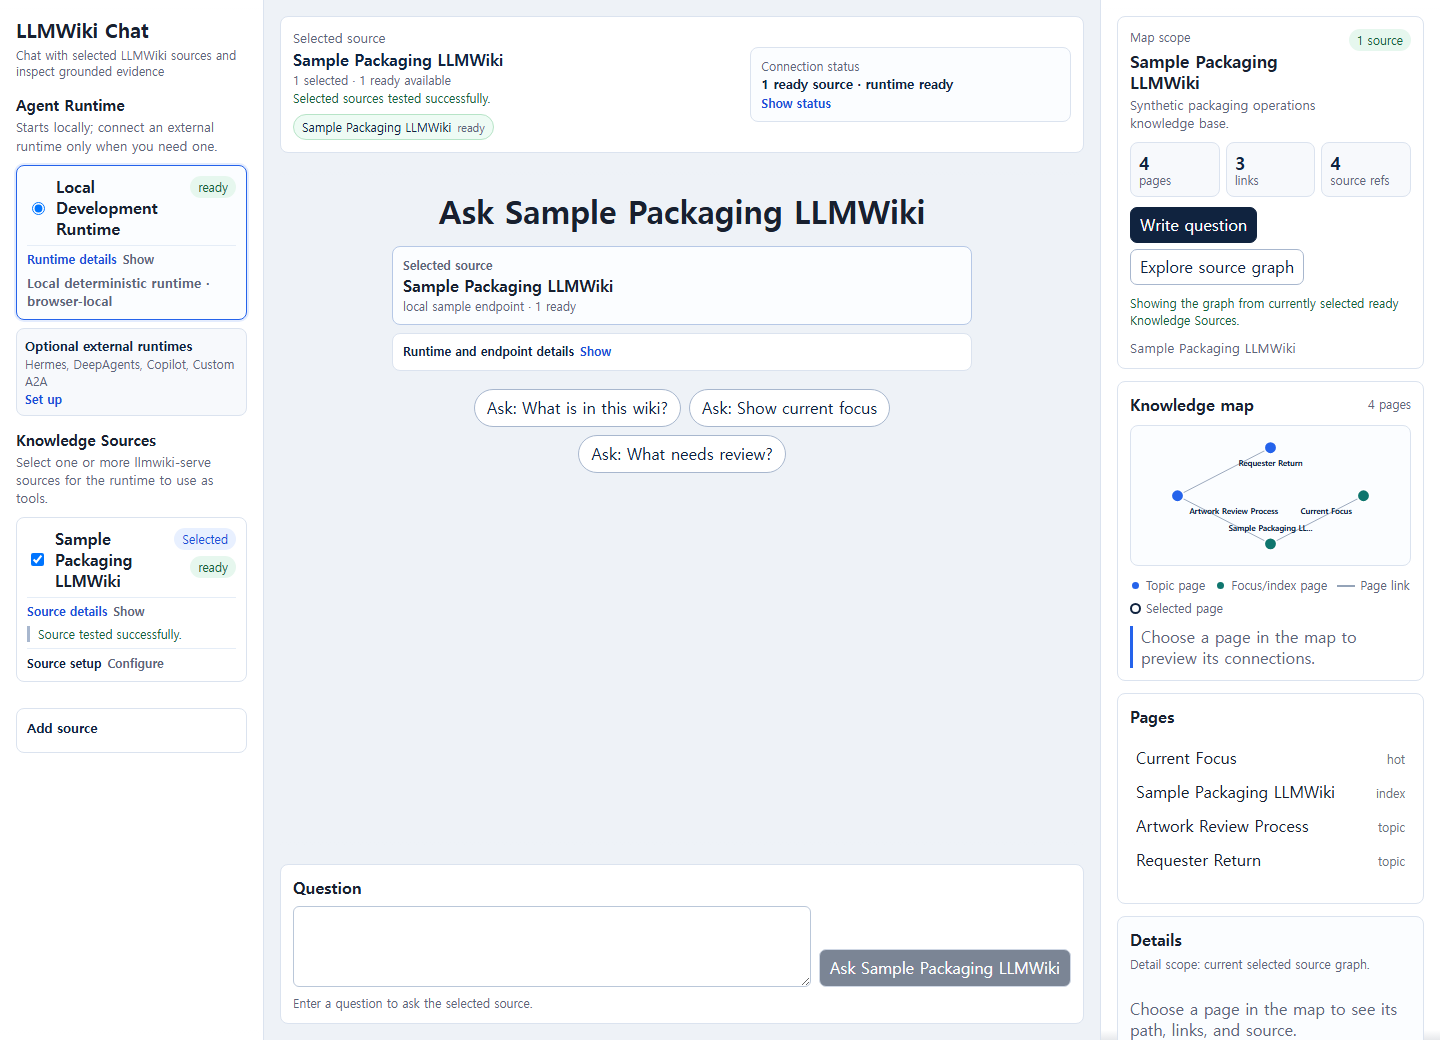
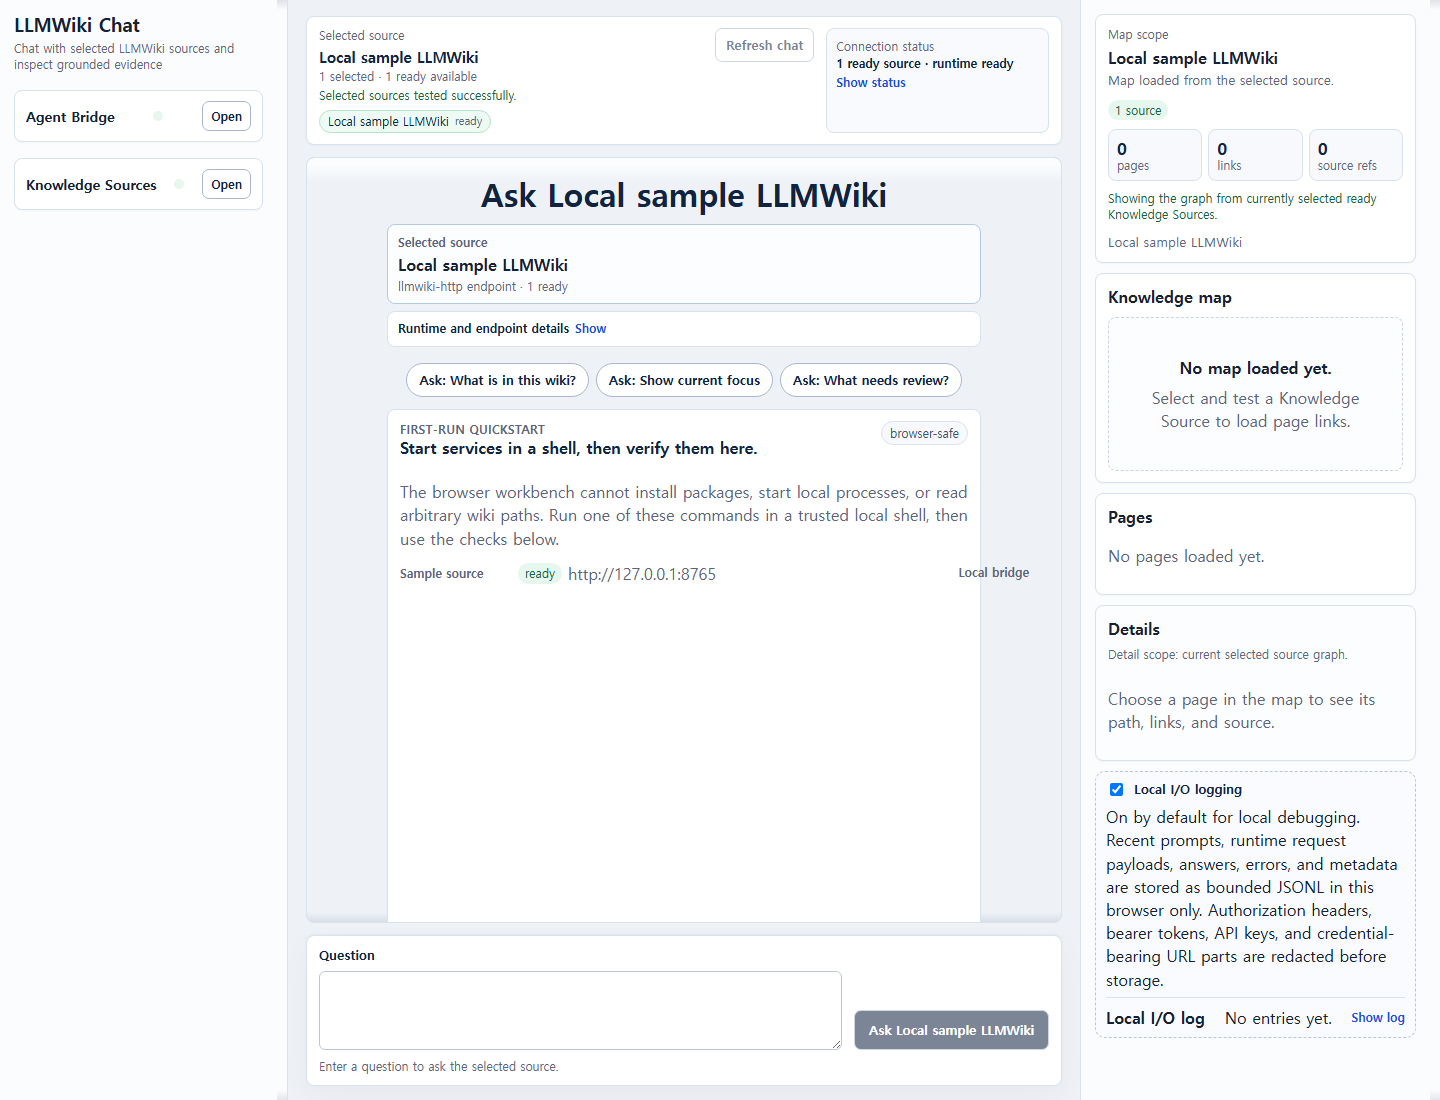
Refresh chat docs and audit lockfile
Merged after all required checks passed. Review requirement was temporarily relaxed for owner-gated maintenance authored by the owner account.

diff --git a/docs/quickstart-orchestration-plan.md b/docs/quickstart-orchestration-plan.md
@@ -5,12 +5,33 @@ automation remains follow-up
 Owner: llmwiki-chat / llmwiki-agent-bridge / llmwiki-serve
 Last updated: 2026-07-21
 
-## Goal
+## Implemented Browser-Safe MVP
 
-Make the first-run path work from `llmwiki-chat` with one visible quickstart
-entry point. The current MVP is browser-guided: it shows safe commands and runs
-source/runtime probes after the user starts local services. It does not install
-packages or launch local processes from the browser.
+The current first-run path works from `llmwiki-chat` through one visible
+Quickstart panel. The MVP is browser-guided: it shows safe commands and runs
+source/runtime probes after the user starts local services in a trusted shell.
+It does not install packages, launch local processes, read arbitrary local wiki
+paths, or register sources with a backend helper from browser-only UI code.
+
+Implemented success means:
+
+1. the Quickstart panel appears in the empty chat state,
+2. the panel makes the browser/process boundary explicit,
+3. the panel shows copyable commands for `llmwiki-serve` sample usage and
+   `llmwiki-agent-bridge@0.1.0`,
+4. the user can test the prefilled local sample source after starting
+   `llmwiki-serve`,
+5. the user can test a local bridge after starting `llmwiki-agent-bridge`,
+6. the user can switch to Local Development Runtime for deterministic UI checks,
+7. chat entry is enabled only through the existing source/runtime readiness
+   checks.
+
+## Future Managed Quickstart Goal
+
+A future managed quickstart may make the button feel like "start LLMWiki", but
+process launching, installation, source registration, and privileged local
+operations must be handled by a local trusted helper, not by browser-only UI
+code. That future flow should:
 
 1. detect local `llmwiki-agent-bridge` and `llmwiki-serve` status,
 2. show commands for starting a default sample wiki when no source is configured,
@@ -19,11 +40,19 @@ packages or launch local processes from the browser.
 5. verify the runtime/source path with smoke tests,
 6. enter chat with working grounded answers.
 
-The button in `llmwiki-chat` should feel like "start LLMWiki", but process
-launching, installation, and privileged local operations must be handled by a
-local trusted helper, not by browser-only UI code.
-
 ## Product Flow
+
+Implemented MVP flow:
+
+```text
+Open llmwiki-chat
+→ Read browser-safe Quickstart panel
+→ Start or reuse llmwiki-serve / llmwiki-agent-bridge in a trusted shell
+→ Test sample source, test local bridge, or choose Local Development Runtime
+→ Start chat when existing readiness checks pass
+```
+
+Future managed flow:
 
 ```text
 Open llmwiki-chat
@@ -38,7 +67,7 @@ Open llmwiki-chat
 
 ## Runtime Choices
 
-The quickstart should present runtime choices in this order:
+The future managed quickstart should present runtime choices in this order:
 
 1. existing configured runtime,
 2. Hermes Agent,
@@ -53,15 +82,15 @@ user confirmation.
 
 | Component | Responsibility |
 |---|---|
-| `llmwiki-chat` | Wizard UI, status display, local log display, user choices |
-| `llmwiki-agent-bridge` | Local setup API, runtime/source settings, verification, safe command orchestration |
+| `llmwiki-chat` | Implemented: Quickstart panel, browser/process boundary copy, copyable commands, existing source/runtime probe actions, local log display, user choices. Future: calls to a trusted local setup API. |
+| `llmwiki-agent-bridge` | Implemented: external A2A-style bridge runtime and bridge-managed source discovery when already running. Future: local setup API, runtime/source settings, verification, safe command orchestration. |
 | `llmwiki-serve` | Serve selected wiki source, expose source bundle/query/graph endpoints |
 | Hermes / DeepAgents / vLLM | Runtime execution, native history/prompt/prefix cache |
 
-`llmwiki-chat` must not directly run arbitrary shell commands. It should call a
-local-only setup surface exposed by a trusted helper.
+`llmwiki-chat` must not directly run arbitrary shell commands. Future managed
+automation should call a local-only setup surface exposed by a trusted helper.
 
-## Proposed Local Setup API
+## Future Local Setup API
 
 Future API surface on `llmwiki-agent-bridge`:
 
@@ -77,13 +106,14 @@ POST /quickstart/stop-managed
 The API should only be enabled for local/private operation and should return
 redacted diagnostics.
 
-## MVP Scope
+## Implemented MVP Scope
 
-MVP avoids installer automation. It only reuses installed tools and provides a
-reliable local path:
+The implemented MVP avoids installer automation. It only reuses installed tools
+and provides a reliable browser-guided local path:
 
 - detect bridge status,
 - show commands for sample `llmwiki-serve`,
+- show the package command for `llmwiki-agent-bridge@0.1.0`,
 - test the selected sample source,
 - test the local bridge when it is running,
 - let the user switch to Local Development Runtime for deterministic UI checks,
@@ -114,9 +144,10 @@ After MVP:
 - Provide stop/retry/reconfigure controls.
 - Persist only safe settings and source descriptors.
 
-## Verification Requirements
+## Future Managed Success Criteria
 
-Quickstart is successful only when all checks pass:
+The following are future managed quickstart success criteria, not current
+browser-safe MVP claims:
 
 1. bridge `/health` returns ready runtime/source status,
 2. serve `/health` and `/source-bundle` return valid metadata,
@@ -127,14 +158,19 @@ Quickstart is successful only when all checks pass:
 
 ## Implementation Sequence
 
+Implemented:
+
 1. Add `llmwiki-chat` Quickstart panel using existing source/runtime discovery.
 2. Add sample source reuse/test support.
 3. Add e2e matrix coverage for local, global, graph, and multi-source flows.
-4. Add read-only quickstart status API to `llmwiki-agent-bridge`.
-5. Add managed sample source start/reuse support after the setup API exists.
-6. Add user wiki path support.
-7. Add optional Hermes/DeepAgents install/start flows.
-8. Add cache/metrics visibility for runtime prefix cache and bridge/serve cache.
+
+Future:
+
+1. Add read-only quickstart status API to `llmwiki-agent-bridge`.
+2. Add managed sample source start/reuse support after the setup API exists.
+3. Add user wiki path support.
+4. Add optional Hermes/DeepAgents install/start flows.
+5. Add cache/metrics visibility for runtime prefix cache and bridge/serve cache.
 
 ## Open Questions
 

diff --git a/README.md b/README.md
@@ -146,11 +146,11 @@ current posture.
 
 ## Demo
 
-![LLMWiki Chat workbench connected to the sample wiki](docs/assets/llmwiki-chat-workbench.png)
+![LLMWiki Chat browser-safe first-run Quickstart panel](docs/assets/llmwiki-chat-workbench.png)
 
-The screenshot shows the workbench connected to the bundled sample wiki through
-`llmwiki-serve`, with the local development runtime selected and graph context
-loaded for inspection before asking.
+The screenshot shows the current browser-safe first-run Quickstart panel with
+sanitized loopback sample values. It does not show a connected production
+runtime, private Knowledge Source, or managed backend automation.
 
 ## Workbench Modes
 
@@ -177,15 +177,23 @@ targets.
 | `llmwiki-docs` | Cross-repo documentation portal. | You need the quickstart, protocol map, deployment posture, and release checklist in one place. | `npm run check` |
 
 Use `llmwiki-agent-bridge` when an OpenAI-compatible local runtime should sit
-behind an A2A-style endpoint for `llmwiki-chat`. From a sibling checkout, or
-after npm publication with `npm exec --package llmwiki-agent-bridge --`, set
-`LLMWIKI_AGENT_BRIDGE_BASE_URL`, `LLMWIKI_AGENT_BRIDGE_MODEL`, and
-`LLMWIKI_AGENT_BRIDGE_RUNTIME_PROFILE` (`hermes`, `deepagents`, or `generic`).
-Use `LLMWIKI_AGENT_BRIDGE_SOURCE_POLICY` and
-`LLMWIKI_AGENT_BRIDGE_ALLOWED_SOURCE_ORIGINS` to control which Knowledge Source
-origins the bridge may fetch. If the bridge requires callers to authenticate,
-set `LLMWIKI_AGENT_BRIDGE_BEARER_TOKEN` in the bridge process and enter that
-runtime bearer token in the `llmwiki-chat` runtime setup panel.
+behind an A2A-style endpoint for `llmwiki-chat`. The public-preview bridge
+package is `llmwiki-agent-bridge@0.1.0`:
+
+```bash
+LLMWIKI_AGENT_BRIDGE_BASE_URL=http://127.0.0.1:8642/v1 \
+LLMWIKI_AGENT_BRIDGE_MODEL=local-model \
+LLMWIKI_AGENT_BRIDGE_RUNTIME_PROFILE=generic \
+npm exec --package llmwiki-agent-bridge@0.1.0 -- llmwiki-agent-bridge
+```
+
+For bridge development or release checks, a sibling source checkout remains
+supported; from that checkout, run `npm ci` and `npm exec -- llmwiki-agent-bridge`
+with the same environment variables. Use `LLMWIKI_AGENT_BRIDGE_SOURCE_POLICY`
+and `LLMWIKI_AGENT_BRIDGE_ALLOWED_SOURCE_ORIGINS` to control which Knowledge
+Source origins the bridge may fetch. If the bridge requires callers to
+authenticate, set `LLMWIKI_AGENT_BRIDGE_BEARER_TOKEN` in the bridge process and
+enter that runtime bearer token in the `llmwiki-chat` runtime setup panel.
 
 ## What It Does
 
@@ -229,16 +237,19 @@ display.
 
 ## Package Artifact
 
-Source checkout usage is the supported path until the first npm publication.
-When published, the npm package is intended as a release artifact for downstream
-static hosting and documentation review. It contains the built browser app under
-`dist/`, public docs, package metadata, retained third-party license texts, and
-community governance files. It does not include a bridge binary, embedded bridge
-implementation, hosted service, model runtime, or production web server.
+`llmwiki-chat@0.1.0` is published on npm. The npm package is a static
+distribution artifact for downstream static hosting and documentation review.
+It contains the built browser app under `dist/`, public docs, package metadata,
+retained third-party license texts, and community governance files. It does not
+include a bridge binary, embedded bridge implementation, hosted service, model
+runtime, or production web server.
 
-After npm publication, consumers can unpack the package and host the static
-`dist/` directory with their preferred web server. Runtime bridge workflows use
-the separate `llmwiki-agent-bridge` checkout or npm package.
+Source checkout usage remains supported for local development and release
+checks. Consumers can unpack the package and host the static `dist/` directory
+with their preferred web server. Runtime bridge workflows use the separate
+`llmwiki-agent-bridge@0.1.0` package with
+`npm exec --package llmwiki-agent-bridge@0.1.0 -- llmwiki-agent-bridge`, or a
+bridge source checkout for bridge development and release checks.
 
 ## Supported Usage Modes
 

diff --git a/docs/agent-runtime-adapters.md b/docs/agent-runtime-adapters.md
@@ -179,7 +179,17 @@ The companion bridge:
 - returns a structured `llmwiki_agent_result` artifact with `answer`,
   `citations`, merged `graph`, and `steps`
 
-Local checkout usage:
+Published package usage:
+
+```bash
+LLMWIKI_AGENT_BRIDGE_BASE_URL=http://127.0.0.1:8642/v1 \
+LLMWIKI_AGENT_BRIDGE_MODEL=local-model \
+LLMWIKI_AGENT_BRIDGE_RUNTIME_PROFILE=generic \
+npm exec --package llmwiki-agent-bridge@0.1.0 -- llmwiki-agent-bridge
+```
+
+Source checkout usage remains supported for bridge development and release
+checks:
 
 ```bash
 git clone https://github.com/knowledge-bridge-labs/llmwiki-agent-bridge.git
@@ -189,15 +199,6 @@ LLMWIKI_AGENT_BRIDGE_BASE_URL=http://127.0.0.1:8642/v1 \
 LLMWIKI_AGENT_BRIDGE_MODEL=hermes-agent \
 LLMWIKI_AGENT_BRIDGE_RUNTIME_PROFILE=hermes \
 npm exec -- llmwiki-agent-bridge
-```
-
-After npm publication, use the package binary instead:
-
-```bash
-LLMWIKI_AGENT_BRIDGE_BASE_URL=http://127.0.0.1:8642/v1 \
-LLMWIKI_AGENT_BRIDGE_MODEL=local-model \
-LLMWIKI_AGENT_BRIDGE_RUNTIME_PROFILE=generic \
-npm exec --package llmwiki-agent-bridge -- llmwiki-agent-bridge
 ```
 
 Use `LLMWIKI_AGENT_BRIDGE_RUNTIME_PROFILE=hermes` for Hermes or a

diff --git a/SECURITY.md b/SECURITY.md
@@ -2,9 +2,9 @@
 
 ## Supported Versions
 
-Security fixes are applied to the current `main` branch until the project
-publishes versioned releases. After releases begin, supported versions will be
-listed here.
+Security fixes are applied to the current `main` branch and the latest
+public-preview 0.x release, currently `llmwiki-chat@0.1.0`, unless an advisory
+or release note says otherwise.
 
 ## Reporting a Vulnerability
 

diff --git a/CONTRIBUTING.md b/CONTRIBUTING.md
@@ -39,7 +39,7 @@ with a wiki folder:
 
 ```bash
 uv sync --extra dev
-uv run llmwiki-serve serve ./tests/fixtures/sample-wiki --host 127.0.0.1 --port 8765
+uv run llmwiki-serve serve ./examples/sample-wiki --host 127.0.0.1 --port 8765
 ```
 
 Then start this client: